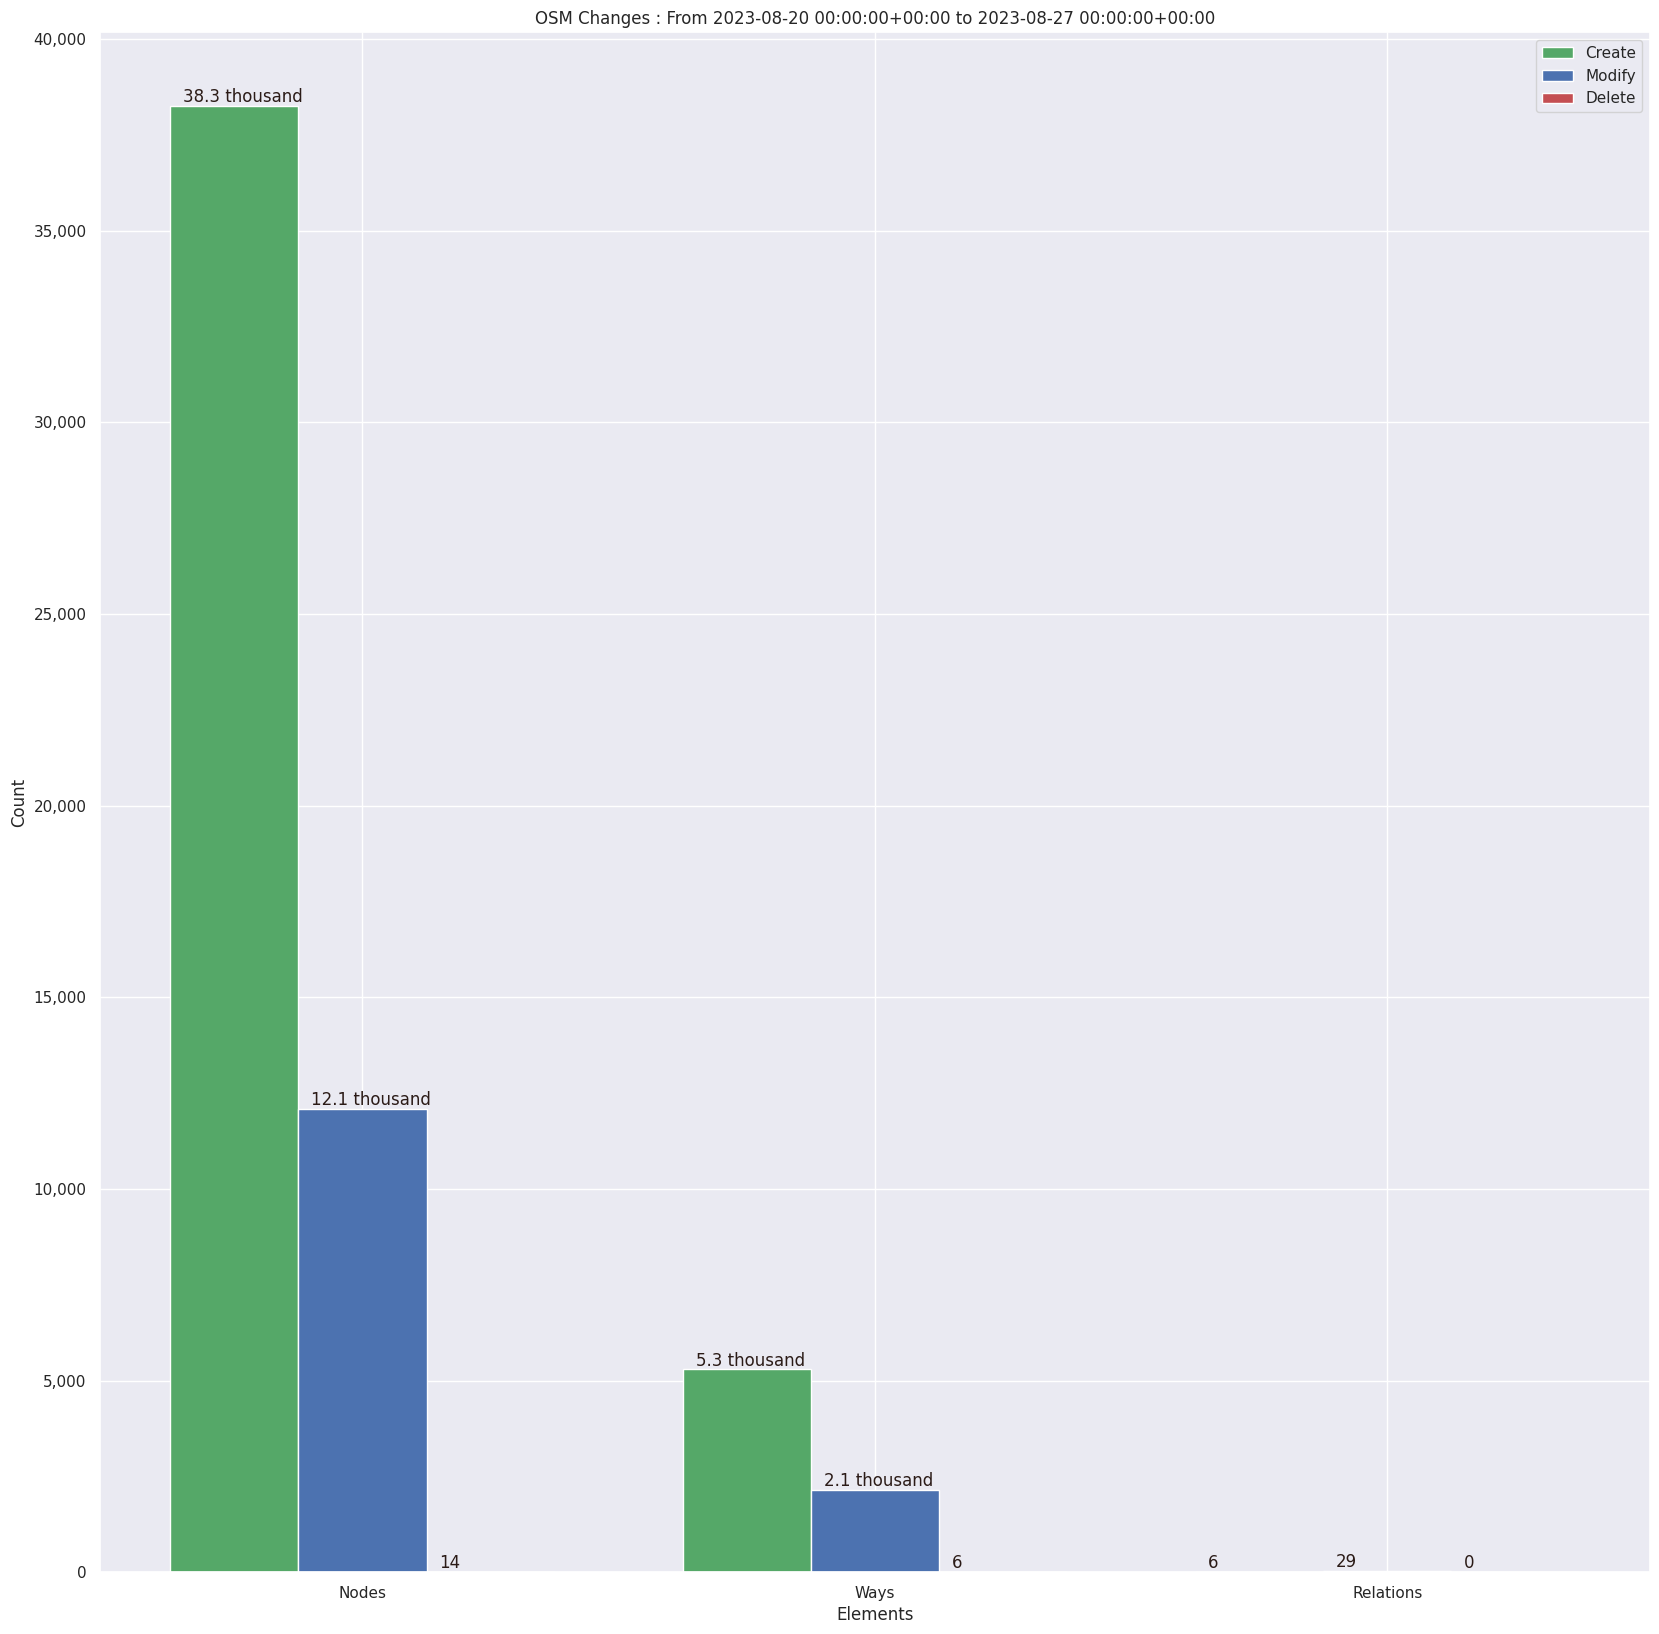
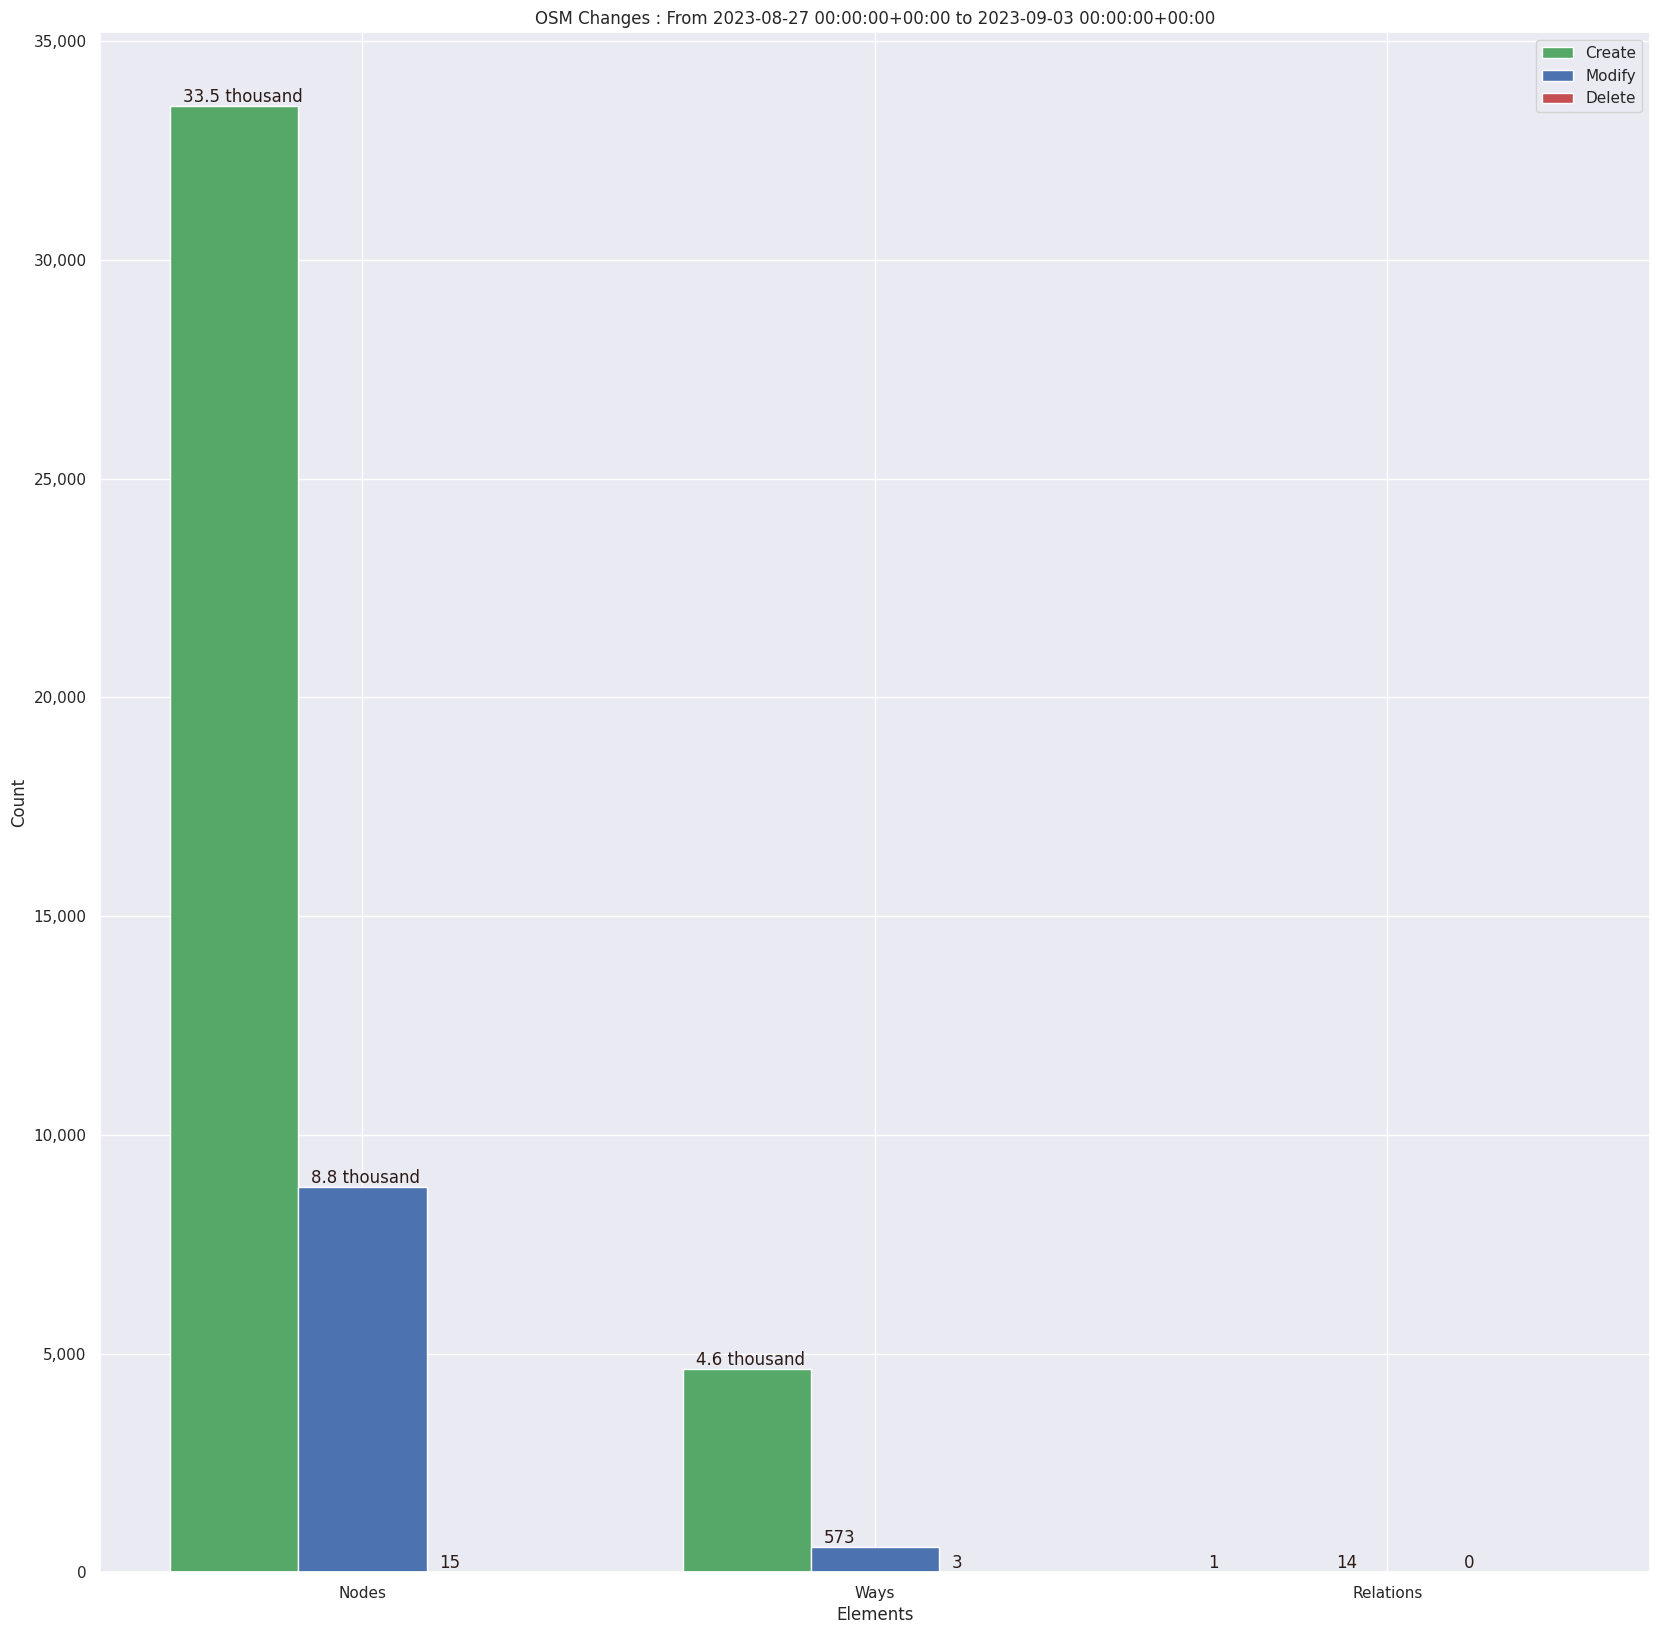
Updated Weekly Nepal Stats

Changed region(s): [[0.1537, 0.6554, 0.2767, 0.7491], [0.4919, 0.9051, 0.5841, 0.9676], [0.4304, 0.8115, 0.4611, 0.8427]]

diff --git a/stats/Nepal/Weekly/Readme.md b/stats/Nepal/Weekly/Readme.md
@@ -1,61 +1,62 @@
-### Last Update : Stats from 2023-08-20 00:00:00+00:00 to 2023-08-27 00:00:00+00:00 (UTC Timezone)
+### Last Update : Stats from 2023-08-27 00:00:00+00:00 to 2023-09-03 00:00:00+00:00 (UTC Timezone)
 
-#### 62 Users made 401 changesets with 57.8 thousand map changes.
-#### 43.6 thousand OSM Elements were Created, 14.3 thousand Modified & 20 Deleted.
+#### 54 Users made 496 changesets with 47.6 thousand map changes.
+#### 38.2 thousand OSM Elements were Created, 9.4 thousand Modified & 18 Deleted.
 Get Full Stats at [stats.csv](/stats/Nepal/Weekly/stats.csv)
  & Get Summary Stats at [stats_summary.csv](/stats/Nepal/Weekly/stats_summary.csv)
 
 Top 5 Users are : 
-- Pragya Joshi : 13.6 thousand Map Changes
-- Lalit_IAAS : 10.4 thousand Map Changes
-- Niruta Neeupane : 10.4 thousand Map Changes
-- Adrie Sonke : 8.8 thousand Map Changes
-- adiatmad : 4.0 thousand Map Changes
+- Pragya Joshi : 15.0 thousand Map Changes
+- Adrie Sonke : 9.0 thousand Map Changes
+- Niruta Neeupane : 5.7 thousand Map Changes
+- Gan_toon : 4.6 thousand Map Changes
+- marek kleciak : 3.7 thousand Map Changes
 
 Summary of Supplied Tags
-- poi = Created: 43, Modified : 100
-- building = Created: 4.7 thousand, Modified : 334
-- highway = Created: 206, Modified : 1.6 thousand
-- waterway = Created: 49, Modified : 45
-- amenity = Created: 19, Modified : 39
+- poi = Created: 60, Modified : 64
+- building = Created: 4.1 thousand, Modified : 125
+- highway = Created: 228, Modified : 302
+- waterway = Created: 52, Modified : 62
+- amenity = Created: 41, Modified : 25
 
 
 Top 5 Created tags are :
-- building: 4.7 thousand
-- natural: 215
-- highway: 206
-- landuse: 130
-- waterway: 49
+- building: 4.1 thousand
+- highway: 228
+- natural: 204
+- landuse: 73
+- waterway: 52
 
 
 Top 5 Modified tags are :
-- highway: 1.6 thousand
-- width: 1.3 thousand
-- building: 334
-- name: 331
-- ref: 131
+- highway: 302
+- building: 125
+- name: 118
+- surface: 86
+- natural: 68
 
 
 Top 5 trending hashtags are:
-- #osmnepal : 9 users
-- #KLL : 7 users
-- #mappingtheunmapped : 7 users
-- #mapforcause : 7 users
+- #osmnepal : 8 users
+- #adt : 7 users
+- #mappingtheunmapped : 6 users
+- #mapforcause : 6 users
 
 
 Top 5 trending editors are:
-- iD 2.27.1 : 28 users
-- JOSM/1.5 (18789 en) : 9 users
-- JOSM/1.5 (18746 en) : 6 users
-- JOSM/1.5 (18772 en) : 3 users
-- iD 2.21.1 : 3 users
+- iD 2.27.1 : 11 users
+- JOSM/1.5 (18746 en) : 8 users
+- iD 2.21.1 : 6 users
+- JOSM/1.5 (18772 en) : 4 users
+- JOSM/1.5 (18789 en) : 4 users
 
 
 Top 5 trending Countries where user contributed are:
-- Nepal : 57 users
-- China : 4 users
-- India : 3 users
-- Democratic People's Republic of Korea : 1 users
+- Nepal : 46 users
+- India : 5 users
+- China : 5 users
+- Iran (Islamic Republic of) : 1 users
+- Afghanistan : 1 users
 
 
  Charts : 
